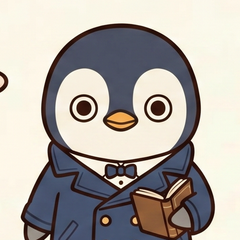
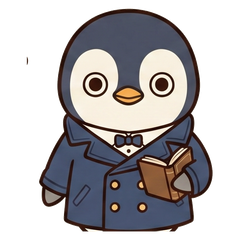
アバター再生成（顔アップ＋背景透過・枠線除去）＋即時Firestore同期＋表記変更
- プリセットアバター15種を上半身寄りにクロップし直し、顔をアップに
  フラッドフィルで背景＋装飾枠線を除去、余白を縮小してズームを強調
- アバター変更時（アップロード/プリセット/削除）に即時 pushToCloud を
  呼び出し、リロード時に古いクラウド値で上書きされるバグを修正
- 『自分のことを設定』→『プロフィール編集』にリネーム
- trait選択肢を内部的にカテゴリ分け（TRAIT_GROUPS）。UIは追って対応
- キャッシュバスター v=20260419g

diff --git a/app/app.js b/app/app.js
@@ -524,42 +524,44 @@ function saveMyTraits(obj) {
 }
 
 // DBから全traitの選択肢を集計（＋ユーザー向けの普遍的な選択肢を合成）
-const CURATED_TRAIT_OPTIONS = {
+// カテゴリごとにサブグループを持たせる
+const TRAIT_GROUPS = {
   foods: [
-    'コーヒー','紅茶','緑茶','ワイン','ビール','日本酒','ウイスキー','シャンパン',
-    'パン','ご飯','麺類','寿司','ラーメン','パスタ','ピザ','カレー',
-    '和食','洋食','中華','フランス料理','イタリア料理','エスニック',
-    '肉料理','魚料理','野菜','果物','チョコレート','スイーツ','アイスクリーム',
-    'チーズ','卵料理','スープ','朝食をしっかり','質素な食事','外食','自炊'
+    { label: '🍷 飲み物', items: ['コーヒー','紅茶','緑茶','ワイン','ビール','日本酒','ウイスキー','シャンパン','濃いコーヒー','水','牛乳'] },
+    { label: '🍚 主食', items: ['パン','ご飯','麺類','寿司','ラーメン','パスタ','ピザ','カレー','黒パン','うどん','そば'] },
+    { label: '🍱 料理ジャンル', items: ['和食','洋食','中華','フランス料理','イタリア料理','エスニック','ロシア料理','オランダ料理'] },
+    { label: '🍖 食材・食事スタイル', items: ['肉料理','魚料理','野菜','果物','ステーキ','オリーブ','スープ','卵料理','菜食主義','朝食をしっかり','質素な食事','外食','自炊'] },
+    { label: '🍰 甘いもの', items: ['チョコレート','スイーツ','アイスクリーム','チーズ','タバコ'] },
   ],
   hobbies: [
-    '読書','映画鑑賞','音楽鑑賞','楽器演奏','歌う','絵を描く','写真','書道',
-    '散歩','ランニング','筋トレ','ヨガ','瞑想','登山','サイクリング','水泳',
-    '旅行','カフェ巡り','美術館・博物館','演劇鑑賞','ライブ・コンサート',
-    '料理','お菓子作り','ガーデニング','園芸','ペットと過ごす',
-    'ゲーム','将棋・囲碁','チェス','パズル','カードゲーム',
-    'SNS','YouTube','ポッドキャスト','日記を書く','手紙を書く',
-    '早起き','夜更かし','温泉・銭湯','友人と語らう','一人で過ごす'
+    { label: '📖 文化・芸術', items: ['読書','映画鑑賞','音楽鑑賞','楽器演奏','歌う','絵を描く','写真','書道','演劇鑑賞','ライブ・コンサート','美術館・博物館','詩を書く','日記を書く','手紙を書く'] },
+    { label: '🏃 運動・アウトドア', items: ['散歩','ランニング','筋トレ','ヨガ','瞑想','登山','サイクリング','水泳','旅行','温泉・銭湯','ハイキング'] },
+    { label: '🎨 制作・生活', items: ['料理','お菓子作り','ガーデニング','園芸','ペットと過ごす','カフェ巡り'] },
+    { label: '🎲 遊び', items: ['ゲーム','将棋・囲碁','チェス','パズル','カードゲーム','賭博'] },
+    { label: '📱 デジタル', items: ['SNS','YouTube','ポッドキャスト'] },
+    { label: '☀ リズム', items: ['早起き','夜更かし','友人と語らう','一人で過ごす'] },
   ],
   likes: [
-    '自然','海','山','森','川','星空','満月','朝日','夕焼け','雨の音','雪',
-    '音楽','クラシック音楽','ジャズ','ポップス','ロック','和楽器の音',
-    '文学','詩','小説','エッセイ','漫画','古典',
-    '哲学','数学','科学','歴史','語学',
-    '犬','猫','鳥','花','植物','観葉植物',
-    '静けさ','一人の時間','家族','友人','恋人','仲間',
-    '旅','見知らぬ街','古い建物','図書館','本屋',
-    '挑戦','創作','学び','自由','美しいもの','シンプルなもの'
+    { label: '🌿 自然・風景', items: ['自然','海','山','森','川','星空','満月','朝日','夕焼け','雨の音','雪'] },
+    { label: '🎵 音楽', items: ['音楽','クラシック音楽','ジャズ','ポップス','ロック','和楽器の音'] },
+    { label: '📚 文学・学問', items: ['文学','詩','小説','エッセイ','漫画','古典','哲学','数学','科学','歴史','語学'] },
+    { label: '🐾 動植物', items: ['犬','猫','鳥','花','植物','観葉植物'] },
+    { label: '👥 人・関係', items: ['家族','友人','恋人','仲間'] },
+    { label: '🧘 時間・場所', items: ['静けさ','一人の時間','旅','見知らぬ街','古い建物','図書館','本屋'] },
+    { label: '✨ 価値観', items: ['挑戦','創作','学び','自由','美しいもの','シンプルなもの'] },
   ],
   dislikes: [
-    '騒音','人混み','満員電車','急かされること','ルーティン',
-    '嘘','偽善','裏切り','陰口','マウント','詮索',
-    '早起き','夜更かし','残業','会議','書類仕事',
-    '虫','爬虫類','高所','閉所','暗い場所',
-    '怒号','威圧','暴力','戦争','差別','理不尽',
-    '無関心','冷笑','見栄','贅沢な浪費','依存'
+    { label: '🔊 環境', items: ['騒音','人混み','満員電車','急かされること','ルーティン','暗い場所'] },
+    { label: '🗣 人間関係', items: ['嘘','偽善','裏切り','陰口','マウント','詮索','無関心','冷笑'] },
+    { label: '💼 仕事・生活', items: ['早起き','夜更かし','残業','会議','書類仕事','見栄','贅沢な浪費'] },
+    { label: '😱 恐怖', items: ['虫','爬虫類','高所','閉所'] },
+    { label: '⚡ 理不尽', items: ['怒号','威圧','暴力','戦争','差別','理不尽','依存'] },
   ],
 };
+// フラットアクセス用のエイリアス
+const CURATED_TRAIT_OPTIONS = Object.fromEntries(
+  Object.entries(TRAIT_GROUPS).map(([cat, groups]) => [cat, groups.flatMap(g => g.items)])
+);
 function collectAllTraitOptions() {
   const counts = { foods: {}, hobbies: {}, likes: {}, dislikes: {} };
   // 偉人名の集合（選択肢として混入した偉人名を除外するため）
@@ -1026,7 +1028,7 @@ function openMemberSettings() {
     <div class="settings-backdrop" data-close="1"></div>
     <div class="settings-panel">
       <button class="settings-close" data-close="1" aria-label="閉じる">×</button>
-      <div class="settings-head">⚙ 自分のことを設定</div>
+      <div class="settings-head">⚙ プロフィール編集</div>
 
       <div class="settings-section settings-avatar-section">
         <div class="settings-sec-label">プロフィール画像</div>
@@ -1137,6 +1139,10 @@ function openMemberSettings() {
           avatarPreview.style.backgroundImage = `url('${dataUrl}')`;
           avatarPreview.textContent = '';
           if (typeof window.updateAccountUI === 'function') window.updateAccountUI();
+          // 即時Firestore同期（デバウンスを待たない）
+          if (typeof window.pushToCloud === 'function' && typeof currentUser !== 'undefined' && currentUser) {
+            window.pushToCloud(currentUser).catch(() => {});
+          }
         };
         img.src = ev.target.result;
       };
@@ -1150,6 +1156,9 @@ function openMemberSettings() {
       avatarPreview.textContent = '👤';
       avatarClear.remove();
       if (typeof window.updateAccountUI === 'function') window.updateAccountUI();
+      if (typeof window.pushToCloud === 'function' && typeof currentUser !== 'undefined' && currentUser) {
+        window.pushToCloud(currentUser).catch(() => {});
+      }
     });
   }
   // プリセットアバター選択
@@ -1162,6 +1171,9 @@ function openMemberSettings() {
       avatarPreview.textContent = '';
       modal.querySelectorAll('[data-preset]').forEach(b => b.classList.toggle('selected', b === btn));
       if (typeof window.updateAccountUI === 'function') window.updateAccountUI();
+      if (typeof window.pushToCloud === 'function' && typeof currentUser !== 'undefined' && currentUser) {
+        window.pushToCloud(currentUser).catch(() => {});
+      }
     });
     // 現在選択中のマーク
     const cur = localStorage.getItem('ijin_user_avatar') || '';
@@ -7475,7 +7487,7 @@ function renderFavorites() {
           </button>
           ${(typeof currentUser !== 'undefined' && currentUser) ? `
             <button class="title-page-edit-name" id="openSettingsBtn">
-              ⚙ 自分のことを設定
+              ⚙ プロフィール編集
             </button>
           ` : `
             <button class="title-page-edit-name" id="openSettingsBtn" data-locked="1">

diff --git a/app/index.html b/app/index.html
@@ -70,7 +70,7 @@
 <link rel="preconnect" href="https://fonts.googleapis.com">
 <link rel="preconnect" href="https://fonts.gstatic.com" crossorigin>
 <link href="https://fonts.googleapis.com/css2?family=Cormorant+Garamond:ital,wght@0,400;0,600;0,700;1,400;1,600&family=Playfair+Display:ital,wght@0,400;0,700;0,900;1,400&family=Shippori+Mincho:wght@400;600;700;800&display=swap" rel="stylesheet">
-<link rel="stylesheet" href="style.css?v=20260419f">
+<link rel="stylesheet" href="style.css?v=20260419g">
 </head>
 <body>
   <header class="app-header">
@@ -453,8 +453,8 @@
     </div>
   </div>
 
-  <script src="app.js?v=20260419f"></script>
-  <script src="auth.js?v=20260419f" type="module"></script>
+  <script src="app.js?v=20260419g"></script>
+  <script src="auth.js?v=20260419g" type="module"></script>
   <script src="ai-consult.js"></script>
 </body>
 </html>
